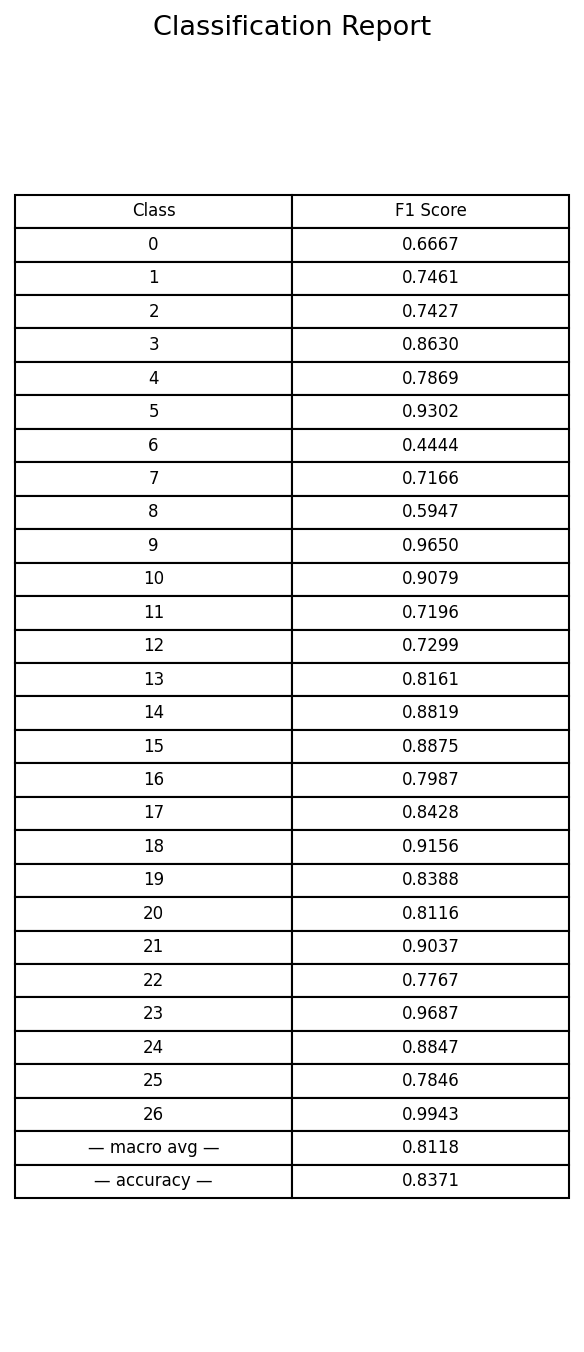
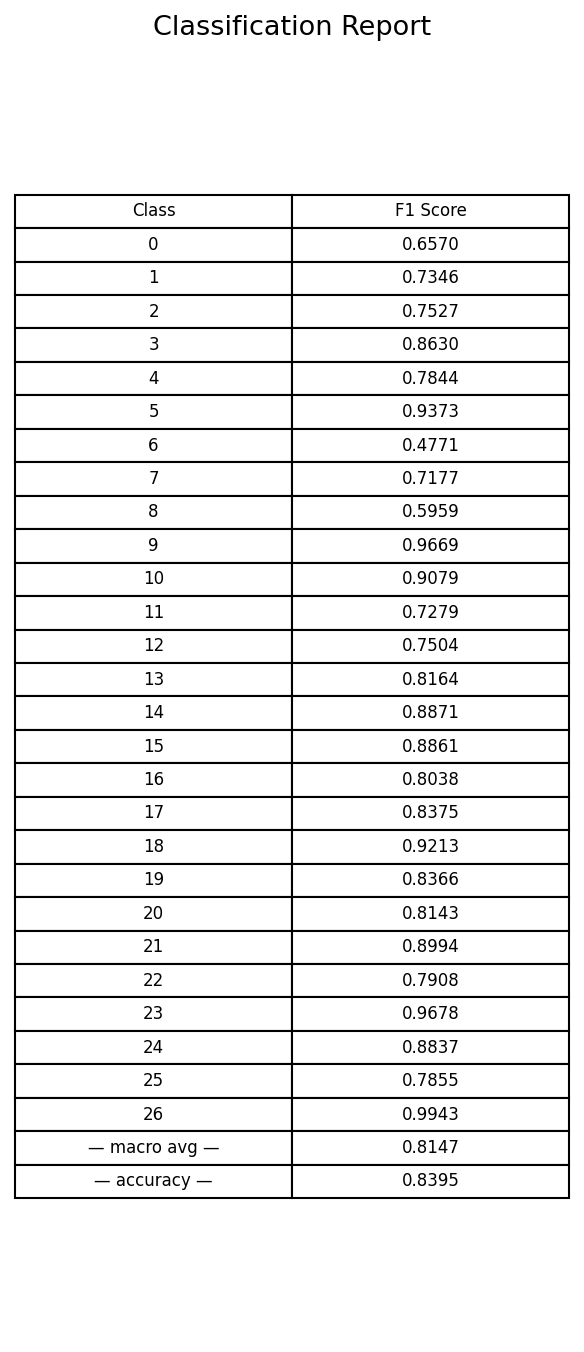
linting

diff --git a/dags/manual_train_text_dag.py b/dags/manual_train_text_dag.py
@@ -1,0 +1,219 @@
+from __future__ import annotations
+
+import os
+from datetime import datetime, timedelta
+from pathlib import Path
+
+from airflow import DAG
+from airflow.operators.python import PythonOperator
+from airflow.providers.docker.operators.docker import DockerOperator
+from docker.types import Mount, DeviceRequest
+
+# ---------------------------------------------------------------------
+# Configuration
+# ---------------------------------------------------------------------
+IMAGE_TAG = os.getenv("DEVICE", "cpu")
+USE_GPU = IMAGE_TAG != "cpu"
+TRAINING_IMAGE = f"rakuten-ml/train-text:{IMAGE_TAG}"
+EVALUATE_IMAGE = "rakuten-ml/evaluate-text:latest"
+
+# PROJECT_ROOT must be an absolute path on the host machine
+PROJECT_ROOT = os.getenv("PROJECT_ROOT")
+
+
+def get_training_env():
+    """Extracts essential environment variables for the training container."""
+    keys = [
+        "MLFLOW_TRACKING_URI",
+        "MLFLOW_TRACKING_USERNAME",
+        "MLFLOW_TRACKING_PASSWORD",
+        "AWS_ACCESS_KEY_ID",
+        "AWS_SECRET_ACCESS_KEY",
+        "AWS_ENDPOINT_URL",
+        "DEVICE",
+    ]
+    return {k: os.getenv(k) for k in keys if os.getenv(k)}
+
+
+DEFAULT_ARGS = {
+    "owner": "mlops",
+    "retries": 0,
+    "retry_delay": timedelta(minutes=5),
+}
+
+
+# ---------------------------------------------------------------------
+# Helpers
+# ---------------------------------------------------------------------
+def read_mlflow_run_id(**context):
+    """Reads the MLflow run_id written by the training container and pushes it to XCom."""
+    run_id_file = Path("/app/results/mlflow_run_id.txt")
+
+    if not run_id_file.exists():
+        raise FileNotFoundError(f"run_id file not found: {run_id_file}")
+
+    run_id = run_id_file.read_text(encoding="utf-8").strip()
+
+    if not run_id:
+        raise ValueError("run_id file is empty")
+
+    context["ti"].xcom_push(key="mlflow_run_id", value=run_id)
+    print(f"MLflow run_id: {run_id}")
+    return run_id
+
+
+# ---------------------------------------------------------------------
+# DAG Definition
+# ---------------------------------------------------------------------
+with DAG(
+    dag_id="manual_train_text",
+    default_args=DEFAULT_ARGS,
+    start_date=datetime(2024, 1, 1),
+    schedule=None,  # Manual trigger only
+    catchup=False,
+    max_active_runs=1,
+    tags=["rakuten", "manual"],
+) as dag:
+    dvc_track_data = DockerOperator(
+        task_id="dvc_track_new_data",
+        image=TRAINING_IMAGE,
+        docker_url="unix://var/run/docker.sock",
+        force_pull=False,
+        mount_tmp_dir=False,
+        auto_remove=True,
+        mounts=[
+            Mount(source=PROJECT_ROOT, target="/app", type="bind"),
+        ],
+        working_dir="/app",
+        command=[
+            "/bin/bash",
+            "-lc",
+            """
+            set -e
+
+            # 1. Ensure DVC is installed and available
+            uv tool install "dvc[s3]"
+            export PATH="/home/appuser/.local/bin:$PATH"
+
+            # 2. Update DVC metadata for the tracked raw directory
+            dvc add data/raw/X_train_update.csv data/raw/Y_train_CVw08PX.csv
+
+            # 3. Stage the directory-level DVC metadata (data/raw is tracked as a whole)
+            git add data/raw.dvc .gitignore
+
+            # 4. Check if data actually changed (info only, training always runs)
+            if git diff --cached --quiet; then
+                echo "INFO: No changes detected in data/raw.dvc. Training will run anyway."
+            else
+                git commit -m "data: update raw directory - $(date '+%Y-%m-%d %H:%M')" || true
+                git push || true
+
+                # 5. Push data objects to the DVC remote (S3)
+                dvc push
+                echo "DVC push complete."
+            fi
+            """,
+        ],
+        environment={
+            **get_training_env(),
+            "GIT_TOKEN": os.getenv("GIT_TOKEN"),
+            "GIT_AUTHOR_NAME": "Airflow MLOps",
+            "GIT_AUTHOR_EMAIL": "[email redacted]",
+            "GIT_COMMITTER_NAME": "Airflow MLOps",
+            "GIT_COMMITTER_EMAIL": "[email redacted]",
+            "DEVICE": IMAGE_TAG,
+        },
+    )
+
+    run_train = DockerOperator(
+        task_id="run_train_text",
+        image=TRAINING_IMAGE,
+        docker_url="unix://var/run/docker.sock",
+        force_pull=False,
+        mount_tmp_dir=False,
+        auto_remove=True,
+        shm_size="4G",
+        mounts=[
+            Mount(source=PROJECT_ROOT, target="/app", type="bind"),
+            Mount(
+                source="/var/run/docker.sock",
+                target="/var/run/docker.sock",
+                type="bind",
+            ),
+        ],
+        working_dir="/app",
+        device_requests=(
+            [DeviceRequest(count=-1, capabilities=[["gpu"]])] if USE_GPU else None
+        ),
+        command=[
+            "/bin/bash",
+            "-lc",
+            """
+            set -e
+
+            # 1. Ensure DVC is installed and available
+            uv tool install "dvc[s3]"
+            export PATH="/home/appuser/.local/bin:$PATH"
+
+            # 2. Sync project dependencies (e.g. torch, transformers)
+            export UV_LINK_MODE=copy
+            uv sync --no-dev --frozen --extra training-text
+
+            # 3. Stage changes like in the local Makefile
+            git add src/ configs/ || true
+            git commit -m "exp: manual airflow run - $(date '+%Y-%m-%d %H:%M')" || true
+
+            # 4. Execute the training pipeline
+            bash docker/entrypoint.sh
+            """,
+        ],
+        environment={
+            **get_training_env(),
+            "GIT_TOKEN": os.getenv("GIT_TOKEN"),
+            "GIT_AUTHOR_NAME": "Airflow MLOps",
+            "GIT_AUTHOR_EMAIL": "[email redacted]",
+            "GIT_COMMITTER_NAME": "Airflow MLOps",
+            "GIT_COMMITTER_EMAIL": "[email redacted]",
+            "DEVICE": IMAGE_TAG,
+        },
+    )
+
+    read_run_id = PythonOperator(
+        task_id="read_mlflow_run_id",
+        python_callable=read_mlflow_run_id,
+    )
+
+    run_evaluate = DockerOperator(
+        task_id="run_evaluate_text",
+        image=EVALUATE_IMAGE,
+        docker_url="unix://var/run/docker.sock",
+        force_pull=False,
+        mount_tmp_dir=False,
+        auto_remove=True,
+        mounts=[
+            Mount(source=PROJECT_ROOT, target="/app", type="bind"),
+        ],
+        working_dir="/app",
+        device_requests=(
+            [DeviceRequest(count=-1, capabilities=[["gpu"]])] if USE_GPU else None
+        ),
+        # Entrypoint is already set in Dockerfile, just pass the arguments
+        command=[
+            "--mlflow_run_id",
+            "{{ ti.xcom_pull(task_ids='read_mlflow_run_id', key='mlflow_run_id') }}",
+            "--x_data_csv_path",
+            "data/processed/val.csv",
+            "--y_data_csv_path",
+            "data/processed/val.csv",
+            "--model_weights_path",
+            "models/best_text_model.pt",
+            "--label_encoding_path",
+            "configs/label_encoding.json",
+        ],
+        environment={
+            **get_training_env(),
+            "DEVICE": IMAGE_TAG,
+        },
+    )
+
+    dvc_track_data >> run_train >> read_run_id >> run_evaluate

diff --git a/dags/retrain_new_data.py b/dags/retrain_new_data.py
@@ -27,22 +27,9 @@ LABEL_ENCODING_PATH = Path("/app/configs/label_encoding.json")
 MIN_SAMPLES = 10
 
 # Dynamic Image Selection based on .env / environment
-# DEVICE = os.getenv("DEVICE", "cpu")
-DEVICE = os.environ["DEVICE"]
+DEVICE = os.getenv("DEVICE", "cpu")
 TRAINING_IMAGE = f"rakuten-ml/train-text:{DEVICE}"
 PROJECT_ROOT = os.getenv("PROJECT_ROOT")  # Needs to be absolute host path (from .env)
-print(f"DEBUG DEVICE={DEVICE}")
-print(f"DEBUG TRAINING_IMAGE={TRAINING_IMAGE}")
-print(f"DEBUG DEVICE={DEVICE}")
-print(f"DEBUG TRAINING_IMAGE={TRAINING_IMAGE}")
-print(f"DEBUG DEVICE={DEVICE}")
-print(f"DEBUG TRAINING_IMAGE={TRAINING_IMAGE}")
-print(f"DEBUG DEVICE={DEVICE}")
-print(f"DEBUG TRAINING_IMAGE={TRAINING_IMAGE}")
-print(f"DEBUG DEVICE={DEVICE}")
-print(f"DEBUG TRAINING_IMAGE={TRAINING_IMAGE}")
-print(f"DEBUG DEVICE={DEVICE}")
-print(f"DEBUG TRAINING_IMAGE={TRAINING_IMAGE}")
 
 
 def get_training_env():